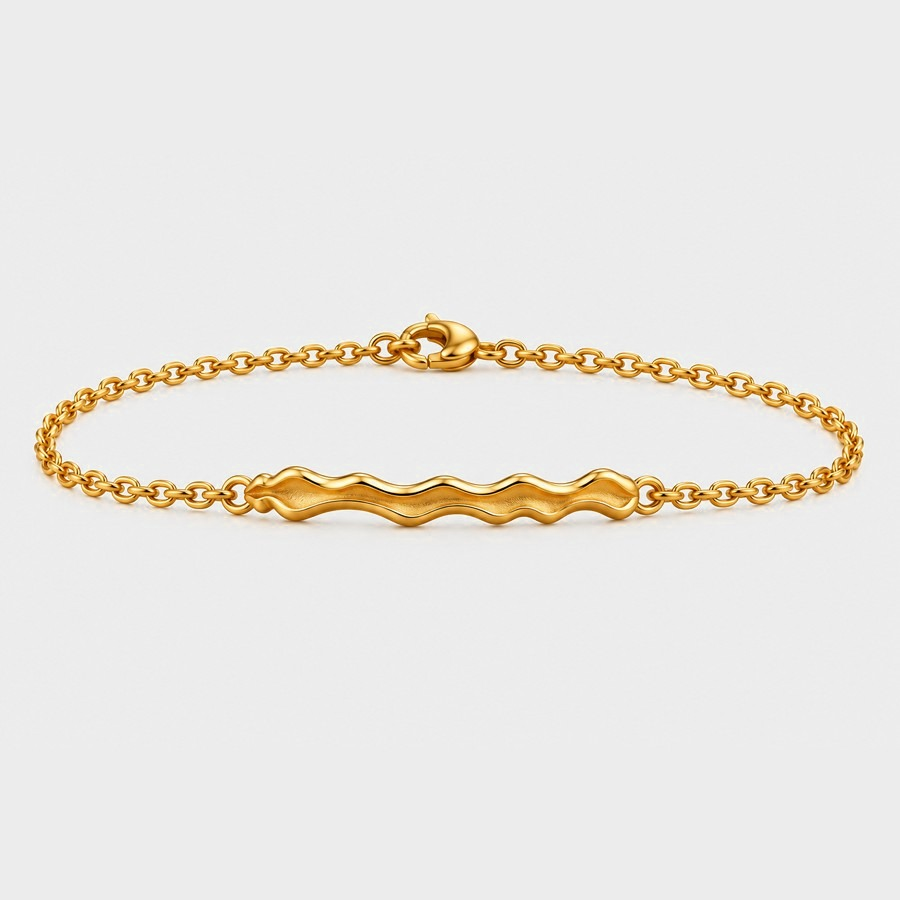
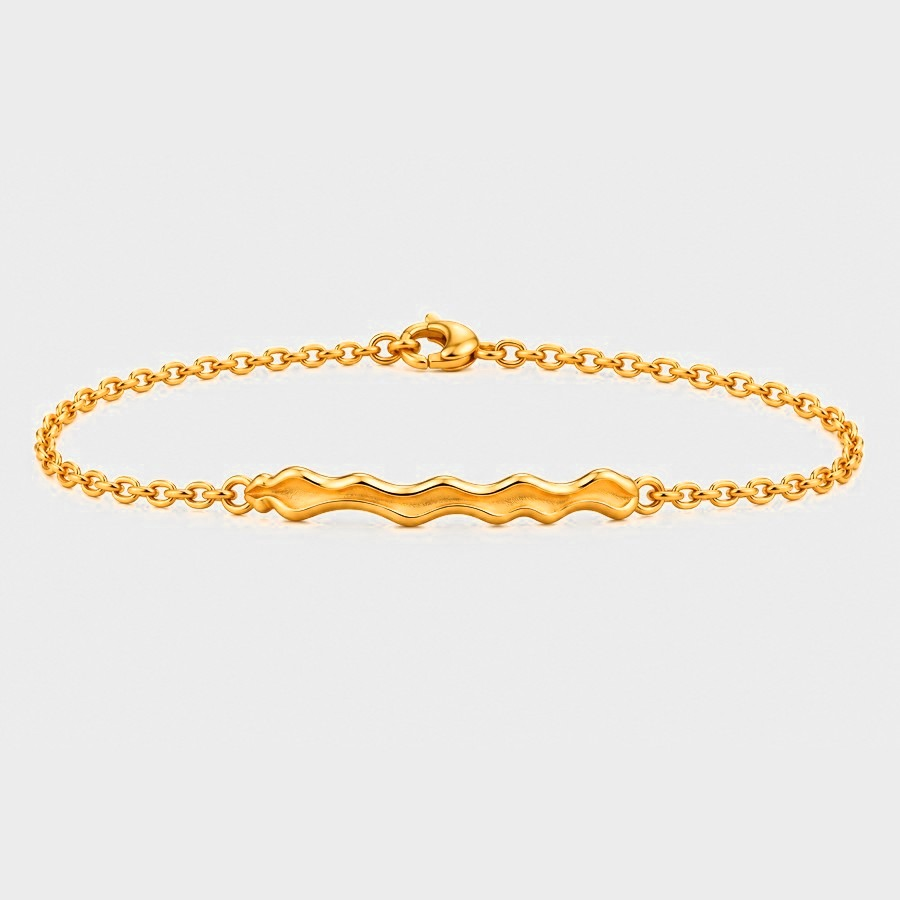
Brighten jewelry metal without touching saturation or the gray background
Revert the CSS brightness() filter (it was also washing out the gray
tile background and clipping highlights, which slightly lowered
saturation there). Instead scale RGB per-pixel only on the jewelry
mask, capped so no channel clips above 254 - this keeps HSV saturation
mathematically unchanged while lifting brightness.

Claude-Session: https://claude.ai/code/session_01C1XmPH3v7Vdqsbce2K1AxV

Changed region(s): [[0.0311, 0.3422, 0.9644, 0.5911]]

diff --git a/assets/css/style.css b/assets/css/style.css
@@ -431,7 +431,7 @@ body:not(.i18n-ready) { visibility: hidden; }
   object-fit: cover;
   border-radius: 12px;
   background: #f4f4f2;
-  filter: blur(4px) brightness(1.15);
+  filter: blur(4px);
   transition: transform 0.4s ease;
 }
 .story-showcase-product:hover img {
